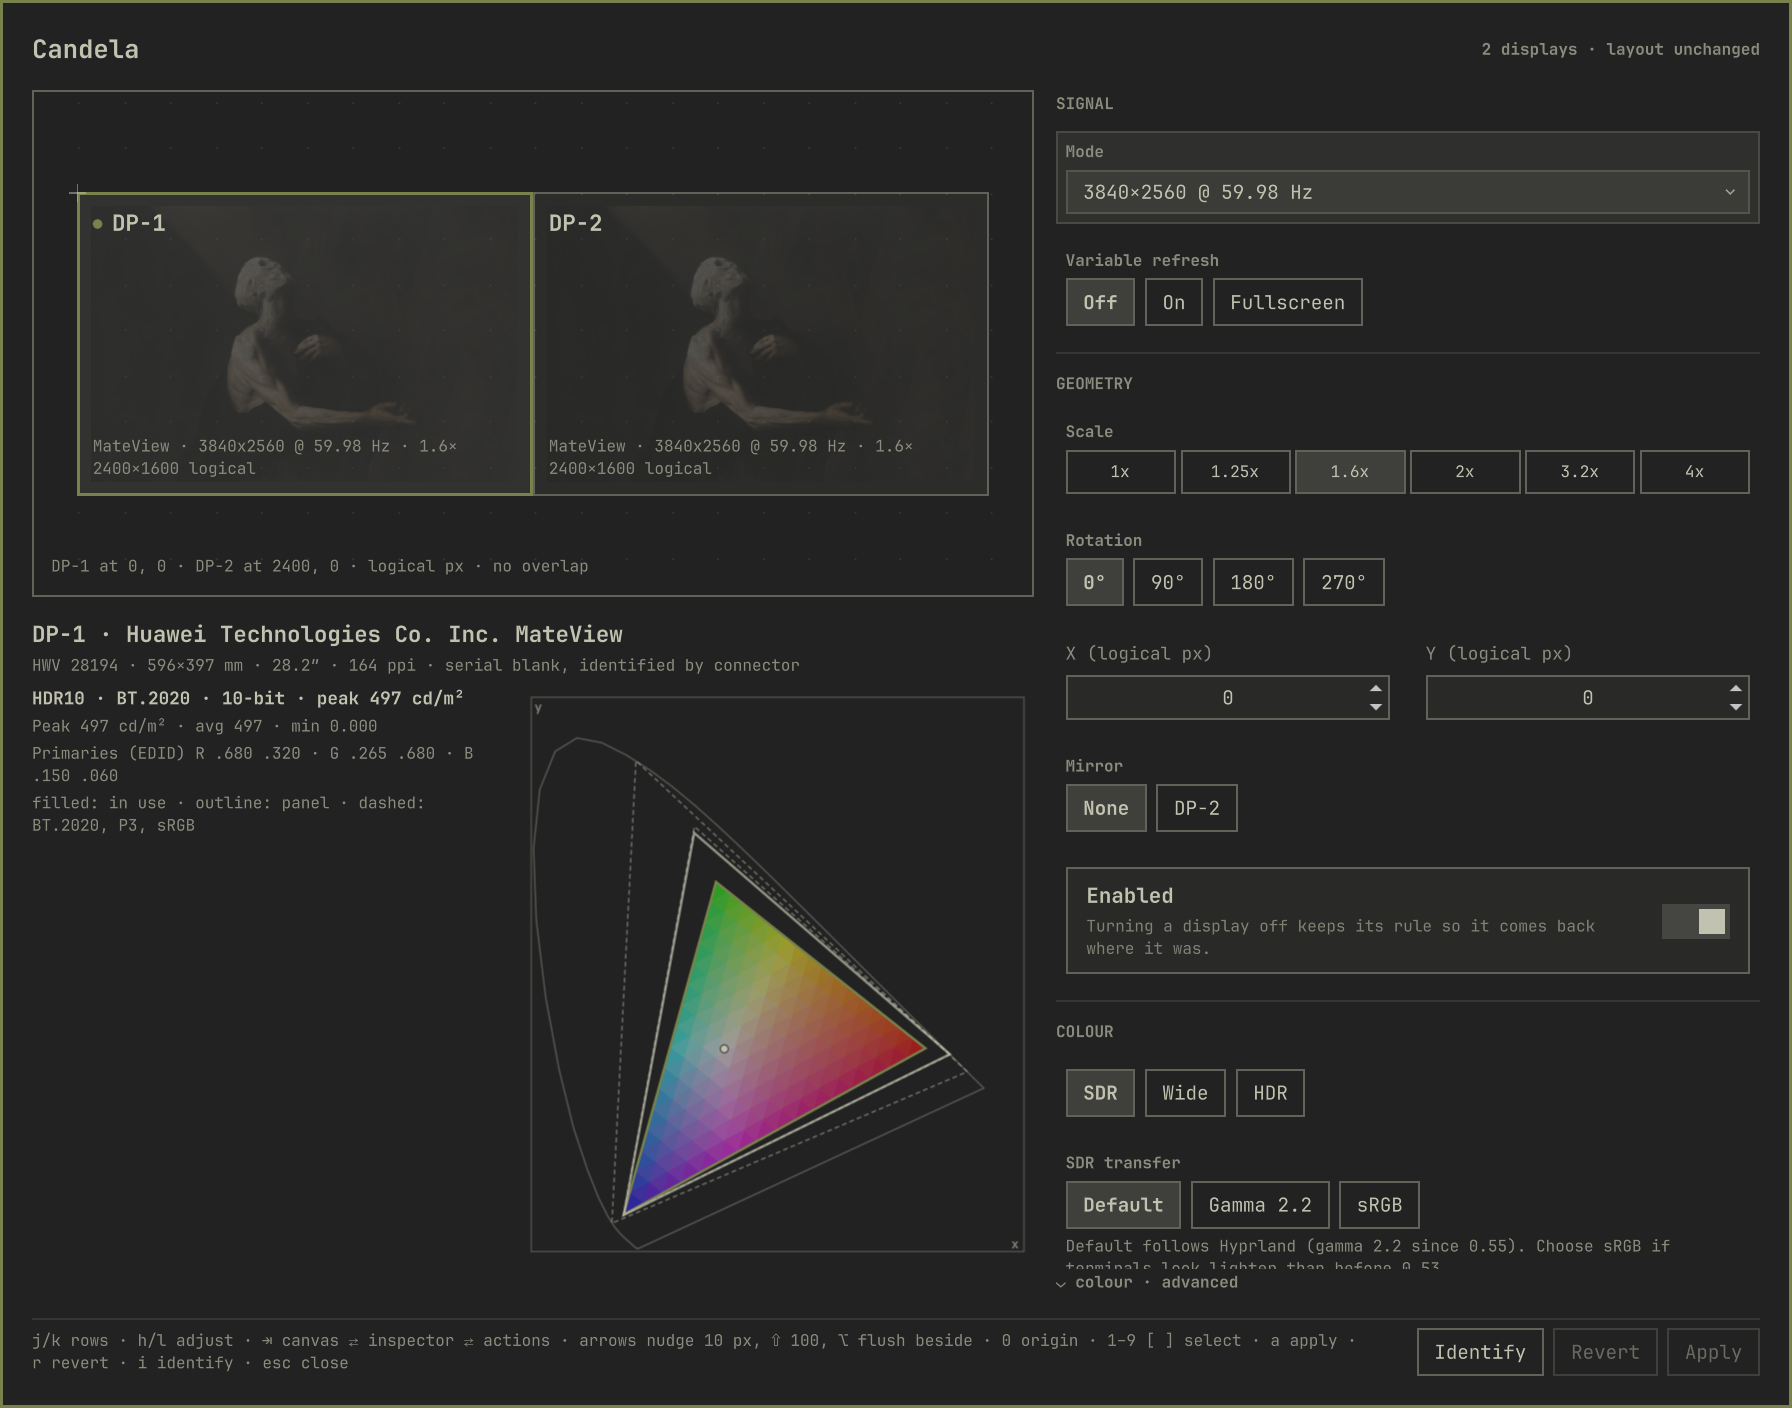
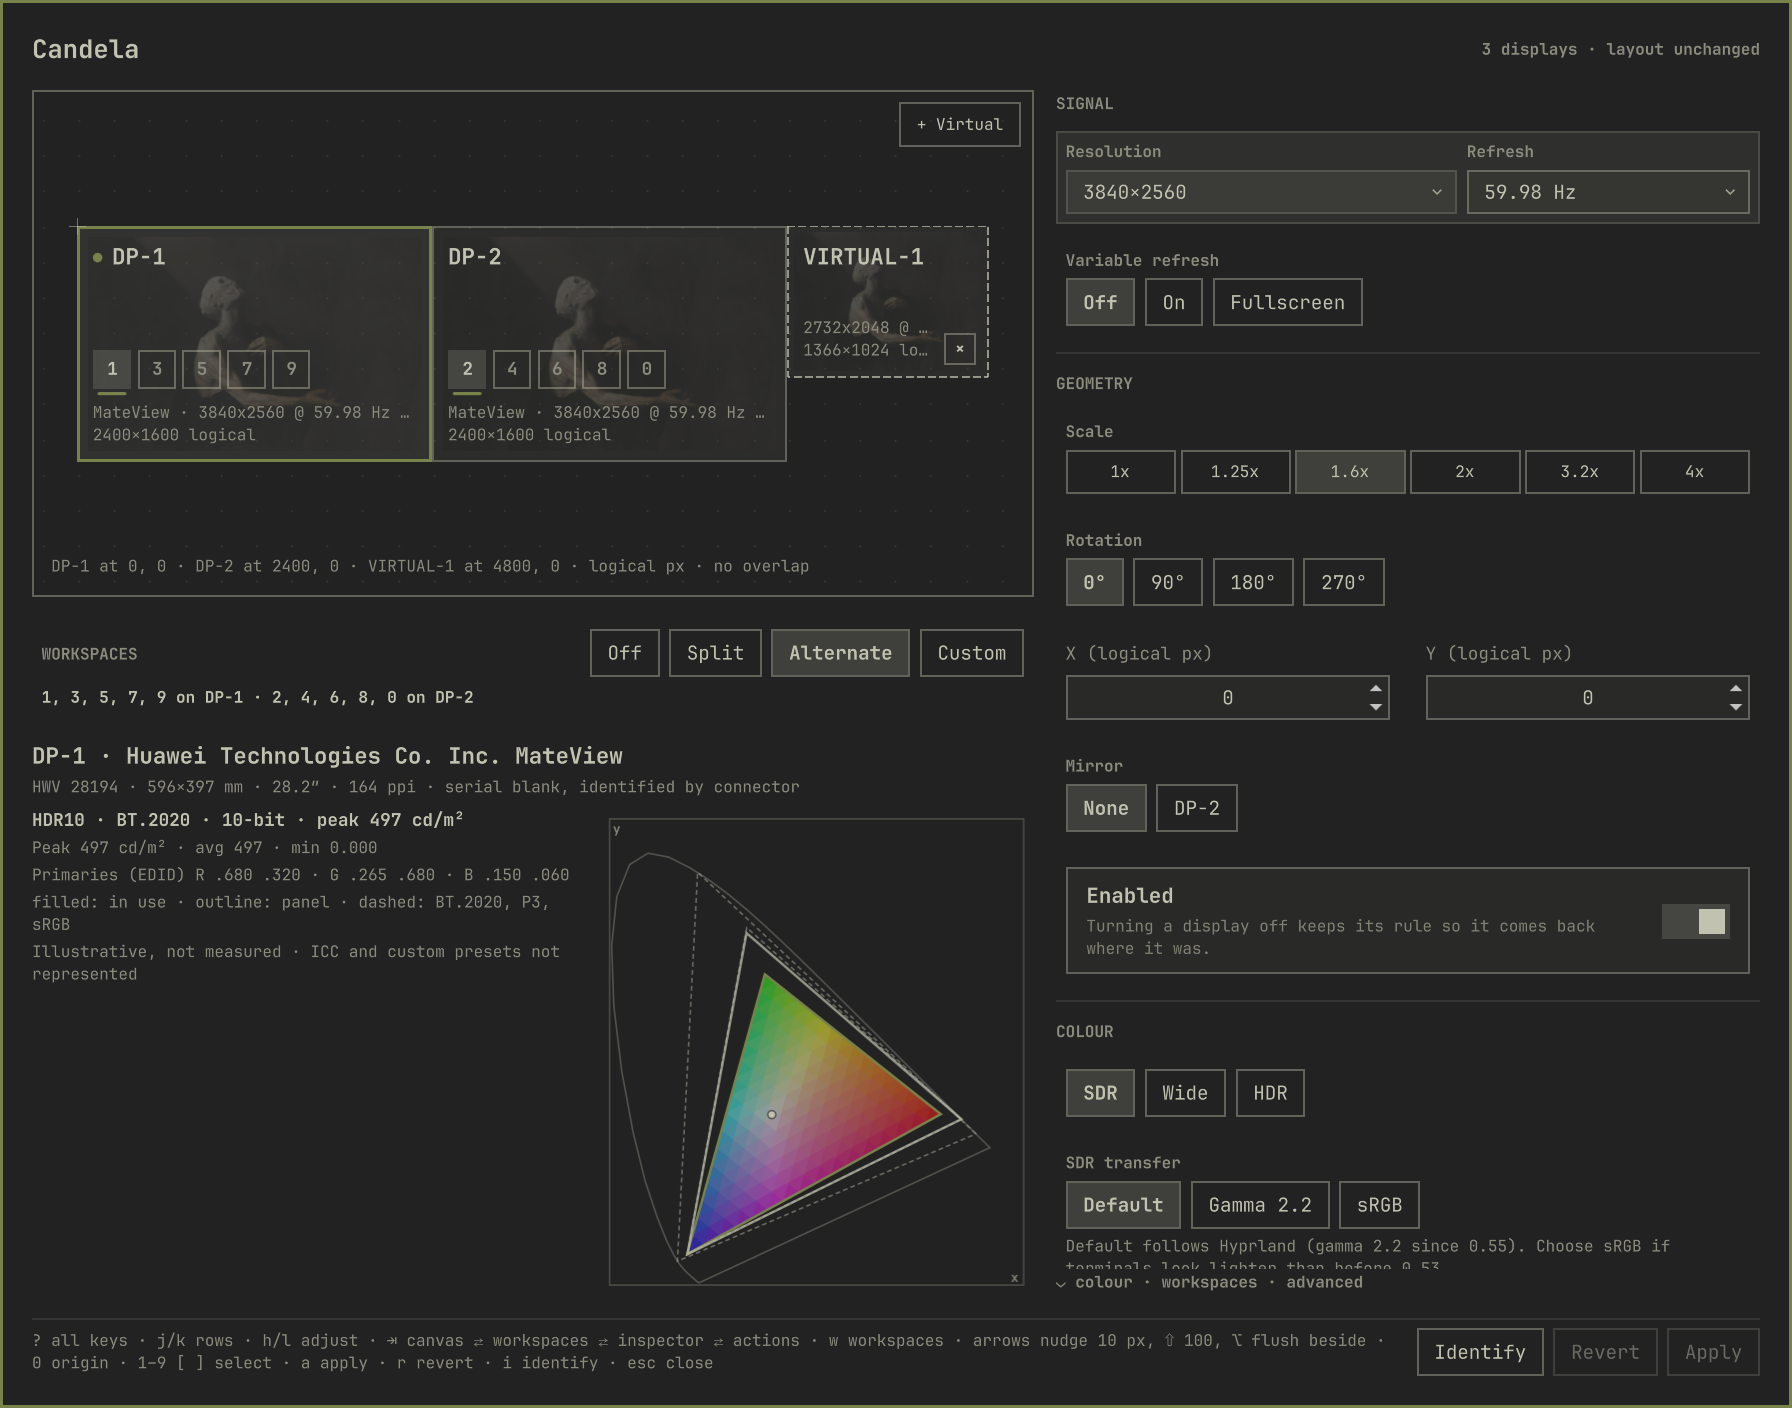
1.3.0: screenshots, a description that says what it does, recording told straight
The studio screenshot (and the marketplace preview, which was the same
image) now shows the workspace plan and a virtual display; two new ones show
the chooser for a virtual display and its inspector. The manifest says
1.3.0 and names workspaces and virtual displays.

The stage's caption and the README said "record" as if any recorder would
do. Seen on the desk: the screen-share picker lists virtual displays and
wf-recorder records one at its exact size, but gpu-screen-recorder's KMS
backend, which Omarchy's own screen recording uses by default, only sees
the graphics card's outputs. Both now say so, and name Omarchy's portal
setting.

diff --git a/Studio.qml b/Studio.qml
@@ -553,7 +553,7 @@ Item {
   property int chooserIndex: 1
   readonly property var virtualUses: [
     { use: "extra", title: "Extra screen", caption: "Use a tablet or another computer as one more screen. It sits beside your displays, so the mouse and windows move onto it. You see it on that device, which needs a VNC viewer app: RealVNC Viewer is free for iPad, Android, Mac and Windows." },
-    { use: "stage", title: "Stage", caption: "A screen of an exact size, 1920×1080 to start, to share in a call or record. Pick it in the call's screen picker and watch it in Candela's window. It sits apart, out of the mouse's way. Nothing to install." },
+    { use: "stage", title: "Stage", caption: "A screen of an exact size, 1920×1080 to start, to share in a call or record. Choose it in the screen-share picker and watch it in Candela's window; Omarchy's own screen recording only sees it with its portal setting on. It sits apart, out of the mouse's way." },
     { use: "bench", title: "Test bench", caption: "See an app at a size or on a device you don't have: pick the device, watch it in Candela's window, and move the mouse onto it to use it. Nothing to install." } ]
   property string removeArmedFor: ""
   Timer { id: removeArm; interval: 4000; onTriggered: root.removeArmedFor = "" }

diff --git a/README.md b/README.md
@@ -38,12 +38,14 @@ The design and the reasoning behind it live in [DESIGN.md](DESIGN.md).
 
 ## What it looks like
 
-The studio: arrangement canvas top left, the panel's identity and its gamut
-underneath, the inspector on the right, keyboard hints and the apply bar along
-the bottom. The blocks on the canvas carry your own wallpaper, so the
-arrangement is a picture of the desk rather than a diagram of it.
+The studio: arrangement canvas top left, the workspace plan under it, the
+panel's identity and its gamut below, the inspector on the right, keyboard
+hints and the apply bar along the bottom. The blocks on the canvas carry your
+own wallpaper, so the arrangement is a picture of the desk rather than a
+diagram of it; the chips on each block are the workspaces that live there,
+and the dashed block is a virtual display.
 
-![The Candela studio, showing two MateView panels arranged side by side with the inspector open on DP-1](docs/media/studio.png)
+![The Candela studio: two MateView panels side by side with workspaces 1, 3, 5, 7, 9 on DP-1 and 2, 4, 6, 8, 0 on DP-2, a dashed virtual display beside them, and the inspector open on DP-1](docs/media/studio.png)
 
 The bar popup, for what you change often. `SDR · Wide · HDR` is gated by what
 the panel actually reports, and the line under it says what the compositor is
@@ -257,6 +259,8 @@ from there; everything stays editable afterwards. All three are the same
 kind of display, a screen that exists only in Hyprland; they differ in where
 they sit and how you see them.
 
+![Adding a virtual display: the studio asks what it is for, Extra screen, Stage or Test bench, each with what it needs](docs/media/virtual-chooser.png)
+
 | For | What it is for | Starts as | Placed | You see it |
 |---|---|---|---|---|
 | Extra screen | a tablet or another computer as one more screen | an iPad Pro 12.9″, 2732×2048 at 2× | beside your rightmost display | on that device, which needs a VNC viewer app |
@@ -272,8 +276,21 @@ connect to.
 
 The size is chosen from *Device or size*, a searchable list of tablets,
 laptops and common sizes (each device's native resolution and the scale that
-keeps its interface the size it is on the device), or *Custom size*.
-*Orientation* swaps the sides for portrait.
+keeps its interface the size it is on the device), or *Custom size*. The
+device you pick is remembered, so one of several that share a size (an iPad
+Air 13″ and an iPad Pro 12.9″, say) is still shown as itself.
+*Orientation* swaps the sides for portrait. *Name* is yours to choose; it
+also names the workspace the display opens on, and renaming it renames that
+workspace.
+
+![The inspector for a virtual display named iPad: its name and workspace, the iPad Pro 12.9″ chosen from Device or size, orientation, refresh, scale and placement](docs/media/virtual.png)
+
+**When nobody is looking at it.** An extra screen beside your displays is
+still there when no tablet is connected, and the pointer and windows can
+wander onto it. When it is neither in Candela's window nor connected over
+the network, the studio says so with how many windows are on it, *Bring them
+here* moves them to the display you are using, and the popup tags it
+"no viewer". (A call sharing it is not something Candela can see.)
 
 **Removing one.** Switching a virtual display off keeps it, ready to switch
 back on. To remove it, press *Remove* next to its name, the × on its block in
@@ -317,8 +334,12 @@ You see a virtual display in two ways:
   watch-only over the network: input there could leave your pointer on a
   screen you cannot see, out of the mouse's reach. Placed beside, viewers can
   use it.
-- **In a call**: the screen-share picker lists virtual displays like any
-  other, so a stage is shared by choosing it there.
+- **In a call or a recording**: the screen-share picker lists virtual
+  displays like any other, so a stage is shared by choosing it there, and
+  recorders that use the picker offer it too. `wf-recorder -o VIRTUAL-2`
+  records one at its exact size. Omarchy's own screen recording reads the
+  graphics card's outputs, which a virtual display is not: set
+  `OMARCHY_SCREENRECORD_USE_PORTAL=true` for it to use the picker instead.
 
 A network viewer shares your keyboard focus: Super shortcuts typed on a tablet act on
 the whole desktop, and locking the session locks the virtual display too.
@@ -357,7 +378,9 @@ omarchy-candela virtual add stage|extra|bench [--size 1920x1080] [--scale 1] [--
 omarchy-candela virtual view VIRTUAL-1 window on|off
 omarchy-candela virtual view VIRTUAL-1 network on|off [--address 192.168.1.89] [--port 5901] [--at-login yes|no]
 omarchy-candela virtual secret VIRTUAL-1         # the username and password, as JSON
+omarchy-candela virtual gather VIRTUAL-1         # bring every window on it to the display you are using
 omarchy-candela virtual remove VIRTUAL-1
+omarchy-candela apply '{"virtual":{"VIRTUAL-1":{"label":"iPad","device":"ipad-pro-12-9"}}}'   # rename it, remember its device
 omarchy-candela virtual install                  # wayvnc, through Omarchy's installer, in a terminal
 ```
 
